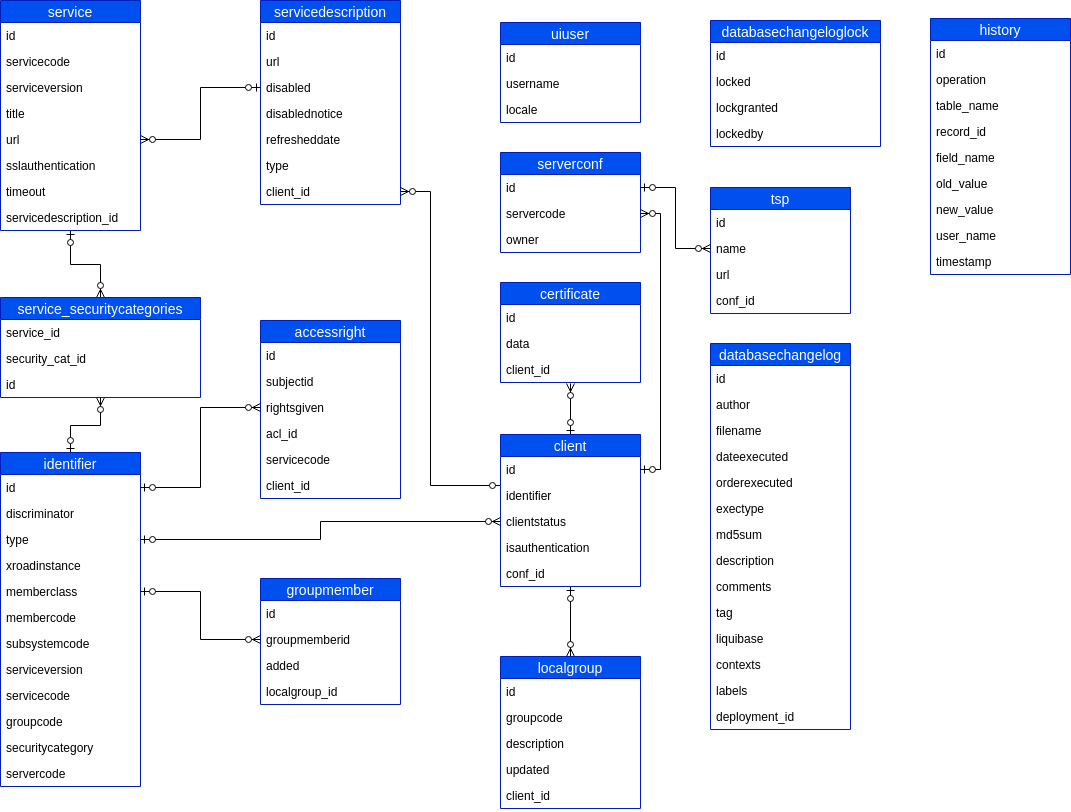
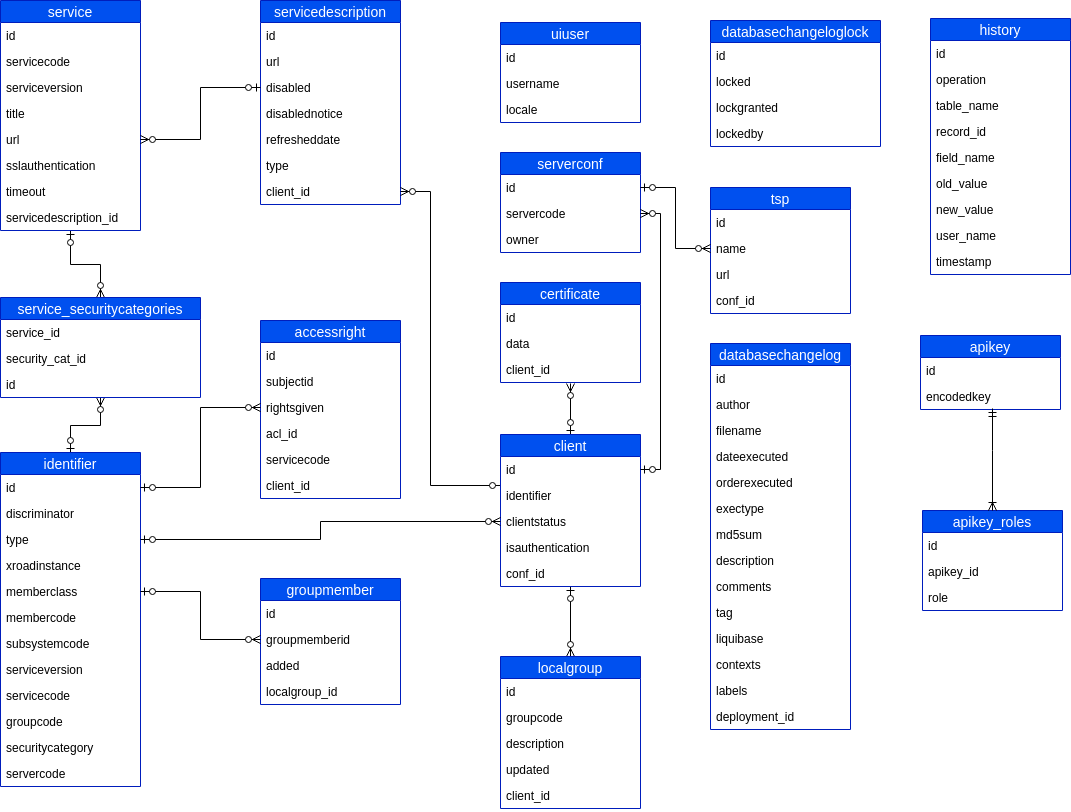
XRDDEV-237 update Security Server Configuration Data Model

Changed region(s): [[0.8627, 0.6158, 1.0, 0.7389], [0.8627, 0.4002, 1.0, 0.4926]]

diff --git a/doc/DataModels/dm-ss_x-road_security_server_configuration_data_model.md b/doc/DataModels/dm-ss_x-road_security_server_configuration_data_model.md
@@ -12,6 +12,7 @@ Doc. ID: DM-SS
 | 19.10.2015 | 1.1     | Indexes added                                           | Martin Lind        |
 | 11.12.2015 | 1.2     | Small fixes                                             | Siim Annuk         |
 | 28.01.2019 | 1.3     | Wsdl changes to servicedescription. Document converted to Markdown.  | Ilkka Seppälä      |
+| 26.03.2019 | 1.4     | Added tables for API keys                                            | Janne Mattila      |
 
 ## Table of Contents
 
@@ -30,42 +31,47 @@ Doc. ID: DM-SS
 	- [2.1 ACCESSRIGHT](#21-accessright)
 		- [2.1.1 Indexes](#211-indexes)
 		- [2.1.2 Attributes](#212-attributes)
-	- [2.2 CERTIFICATE](#22-certificate)
+	- [2.2 APIKEY](#22-apikey)
 		- [2.2.1 Attributes](#221-attributes)
-	- [2.3 CLIENT](#23-client)
+	- [2.3 APIKEY_ROLES](#23-apikeyroles)
 		- [2.3.1 Indexes](#231-indexes)
 		- [2.3.2 Attributes](#232-attributes)
-	- [2.4 DATABASECHANGELOG](#24-databasechangelog)
+	- [2.4 CERTIFICATE](#24-certificate)
 		- [2.4.1 Attributes](#241-attributes)
-	- [2.5 DATABASECHANGELOGLOCK](#25-databasechangeloglock)
-		- [2.5.1 Attributes](#251-attributes)
-	- [2.6 GROUPMEMBER](#26-groupmember)
-		- [2.6.1 Indexes](#261-indexes)
-		- [2.6.2 Attributes](#262-attributes)
-	- [2.7 HISTORY](#27-history)
+	- [2.5 CLIENT](#25-client)
+		- [2.5.1 Indexes](#251-indexes)
+		- [2.5.2 Attributes](#252-attributes)
+	- [2.6 DATABASECHANGELOG](#26-databasechangelog)
+		- [2.6.1 Attributes](#261-attributes)
+	- [2.7 DATABASECHANGELOGLOCK](#27-databasechangeloglock)
 		- [2.7.1 Attributes](#271-attributes)
-	- [2.8 IDENTIFIER](#28-identifier)
-		- [2.8.1 Attributes](#281-attributes)
-	- [2.9 LOCALGROUP](#29-localgroup)
-		- [2.9.1 Indexes](#291-indexes)
-		- [2.9.2 Attributes](#292-attributes)
-	- [2.10 SERVERCONF](#210-serverconf)
-		- [2.10.1 Indexes](#2101-indexes)
-		- [2.10.2 Attributes](#2102-attributes)
-	- [2.11 SERVICE](#211-service)
+	- [2.8 GROUPMEMBER](#28-groupmember)
+		- [2.8.1 Indexes](#281-indexes)
+		- [2.8.2 Attributes](#282-attributes)
+	- [2.9 HISTORY](#29-history)
+		- [2.9.1 Attributes](#291-attributes)
+	- [2.10 IDENTIFIER](#210-identifier)
+		- [2.10.1 Attributes](#2101-attributes)
+	- [2.11 LOCALGROUP](#211-localgroup)
 		- [2.11.1 Indexes](#2111-indexes)
 		- [2.11.2 Attributes](#2112-attributes)
-	- [2.12 SERVICE_SECURITYCATEGORIES](#212-servicesecuritycategories)
+	- [2.12 SERVERCONF](#212-serverconf)
 		- [2.12.1 Indexes](#2121-indexes)
 		- [2.12.2 Attributes](#2122-attributes)
-	- [2.13 TSP](#213-tsp)
+	- [2.13 SERVICE](#211-service)
 		- [2.13.1 Indexes](#2131-indexes)
 		- [2.13.2 Attributes](#2132-attributes)
-	- [2.14 UIUSER](#214-uiuser)
-		- [2.14.1 Attributes](#2141-attributes)
-	- [2.15 SERVICEDESCRIPTION](#215-servicedescription)
+	- [2.14 SERVICE_SECURITYCATEGORIES](#214-servicesecuritycategories)
+		- [2.14.1 Indexes](#2141-indexes)
+		- [2.14.2 Attributes](#2142-attributes)
+	- [2.15 TSP](#215-tsp)
 		- [2.15.1 Indexes](#2151-indexes)
 		- [2.15.2 Attributes](#2152-attributes)
+	- [2.16 UIUSER](#216-uiuser)
+		- [2.16.1 Attributes](#2161-attributes)
+	- [2.17 SERVICEDESCRIPTION](#217-servicedescription)
+		- [2.17.1 Indexes](#2171-indexes)
+		- [2.17.2 Attributes](#2172-attributes)
 
 ## License
 
@@ -133,11 +139,40 @@ Access right of a security server client or a group of clients to use a particul
 | servicecode | character varying(255) | NOT NULL | The service code part of the service identifier. |
 | client_id [FK]     | bigint         |         | The security server client who provides the service. References id attribute of CLIENT entity.          |
 
-## 2.2 CERTIFICATE
+## 2.2 APIKEY
+
+API key which grants access to REST API operations.
+
+### 2.2.1 Attributes
+
+| Name        | Type           | Modifiers        | Description          |
+|:----------- |:--------------:|:----------------:|:--------------------:|
+| id [PK]     | bigint         | NOT NULL         | Primary key          |
+| encodedkey | character varying(255) | NOT NULL | Encoded API key |
+
+## 2.3 APIKEY_ROLES
+
+Roles linked to one API key.
+
+### 2.3.1 Indexes
+
+| Name        | Columns           |
+|:----------- |:-----------------:|
+| unique_apikey_role | apikey_id, role |
+
+### 2.3.2 Attributes
+
+| Name        | Type           | Modifiers        | Description          |
+|:----------- |:--------------:|:----------------:|:--------------------:|
+| id [PK]     | bigint         | NOT NULL         | Primary key          |
+| apikey_id [FK]     | bigint         | NOT NULL         | Links one role to an API key          |
+| role | character varying(255) | NOT NULL | Role name. Check constraint `valid_role` limits value to valid ones. |
+
+## 2.4 CERTIFICATE
 
 Trusted authentication certificate associated with an information system belonging to a particular security server client. A certificate record is created when a certificate is uploaded for a security server client. The record is deleted when the certificate is deleted from the system configuration. The record is never modified.
 
-### 2.2.1 Attributes
+### 2.4.1 Attributes
 
 | Name        | Type           | Modifiers        | Description           |
 |:----------- |:-----------------:|:----------- |:-----------------:|
@@ -145,7 +180,7 @@ Trusted authentication certificate associated with an information system belongi
 | data | oid |  | X.509 public key certificate in binary DER form. |
 | client_id [FK] | bigint | | The security server client whose information system server uses this authentication certificate. References id attribute of CLIENT entity. |
 
-## 2.3 CLIENT
+## 2.5 CLIENT
 
 Member or subsystem that is using this security server. The security server owner is also registered as a client.
 For owner, the record is created when the administrator initializes the security server. For security server users, the record is created when the administrator adds new client in the user interface.
@@ -158,14 +193,14 @@ The field clientstatus shows the progress of registering in central server the c
     • “deletion in progress” -- the security server has successfully sent client deletion request to the central server. From this state, the only possible action is to delete the client from security server configuration.
     • “global error” -- the client was in state “registered”, but the connection between the client and the security server has been deleted from the global configuration. From this state the administrator can either wait for updated global configuration (in case the deletion was caused by an error), contact the systems administrator of the central server or delete the client.
 
-### 2.3.1 Indexes
+### 2.5.1 Indexes
 
 | Name        | Columns           |
 |:----------- |:-----------------:|
 | CLIENT_CONF_ID_fkey | conf_id   |
 | CLIENT_IDENTIFIER_fkey | identifier |
 
-### 2.3.2 Attributes
+### 2.5.2 Attributes
 
 | Name        | Type           | Modifiers        | Description           |
 |:----------- |:-----------------:|:----------- |:-----------------:|
@@ -178,11 +213,11 @@ The field clientstatus shows the progress of registering in central server the c
     • “SSLNOAUTH” -- the client can only connect with HTTPS protocol. No certificate-based authentication is used.
     • “SSLAUTH” -- the client can only connect with HTTPS protocol. The client must authenticate the connection with certificate. |
 
-## 2.4 DATABASECHANGELOG
+## 2.6 DATABASECHANGELOG
 
 Liquibase migration of the database. A record is created when the administrator updates the software package containing this database and the database structure needs to be modified. The record is never modified or deleted. This table has a technical nature and is not managed by X-Road application software.
 
-### 2.4.1 Attributes
+### 2.6.1 Attributes
 
 | Name        | Columns           | Name        | Columns           |
 |:----------- |:-----------------:|:----------- |:-----------------:|
@@ -201,11 +236,11 @@ Liquibase migration of the database. A record is created when the administrator 
 | labels | character varying(255) |  | Labels of the migration. |
 | deployment_id | character varying(10) |  | Deployment id of the migration. |
 
-## 2.5 DATABASECHANGELOGLOCK
+## 2.7 DATABASECHANGELOGLOCK
 
 Lock used by Liquibase to allow only one migration of the database to run at a time. This table has a technical nature and is not managed by X-Road application software.
 
-### 2.5.1 Attributes
+### 2.7.1 Attributes
 
 | Name        | Type           | Modifiers        | Description           |
 |:----------- |:-----------------:|:----------- |:-----------------:|
@@ -214,18 +249,18 @@ Lock used by Liquibase to allow only one migration of the database to run at a t
 | lockgranted | timestamp with time zone |  | Date and time when the lock was granted. |
 | lockedby | character varying(255) |  | Human-readable description of who the lock was granted to. |
 
-## 2.6 GROUPMEMBER
+## 2.8 GROUPMEMBER
 
 Member of a local group. A group membership record is created when the administrator adds a new subsystem to a local group. The record is deleted when the administrator removes the subsystem from the local group. The record is never modified. 
 
-### 2.6.1 Indexes
+### 2.8.1 Indexes
 
 | Name        | Columns           |
 |:----------- |:-----------------:|
 | GROUPMEMBER_GROUPMEMBERID_fkey | groupmemberid |
 | GROUPMEMBER_LOCALGROUP_ID_fkey | localgroup_id |
 
-### 2.6.2 Attributes
+### 2.8.2 Attributes
 
 | Name        | Type           | Modifiers        | Description           |
 |:----------- |:-----------------:|:----------- |:-----------------:|
@@ -234,11 +269,11 @@ Member of a local group. A group membership record is created when the administr
 | added | timestamp with time zone | NOT NULL | The time when the group member  was added. |
 | localgroup_id [FK] | bigint |  | The local group. References id attribute of LOCALGROUP entity. |
 
-## 2.7 HISTORY
+## 2.9 HISTORY
 
 Operations (insertions, updates and deletions of records) on the tables of this database, for the purpose of auditing. Each record corresponds to the change of a single field. The record is created in the manner described in section 1.4. The record is never modified or deleted.
 
-### 2.7.1 Attributes
+### 2.9.1 Attributes
 
 | Name        | Type           | Modifiers        | Description           |
 |:----------- |:-----------------:|:----------- |:-----------------:|
@@ -252,11 +287,11 @@ Operations (insertions, updates and deletions of records) on the tables of this 
 | user_name   | character varying(255) | NOT NULL | Name of either the logged in user of the UI or the database user behind the connection, that initiated the operation. |
 | timestamp  | timestamp without time zone | NOT NULL | Date and time of the operation.  |
 
-## 2.8 IDENTIFIER
+## 2.10 IDENTIFIER
 
 Identifier that can be used to identify various objects on X-Road. An identifier record is only created together with records of other entities and only one record of each identifier is ever created. For example, if a security server client record is created and its identifier is not found among identifier records, new one is created. The record is never modified or deleted.
 
-### 2.8.1 Attributes
+### 2.10.1 Attributes
 
 | Name        | Type           | Modifiers        | Description           |
 |:----------- |:-----------------:|:----------- |:-----------------:|
@@ -273,17 +308,17 @@ Identifier that can be used to identify various objects on X-Road. An identifier
 | securitycategory | character varying(255) |   | Security category. Present in identifiers of SECURITYCATEGORY type.  |
 | servercode | character varying(255) |   | Security server code. Present in identifiers of SERVER type.  |
 
-## 2.9 LOCALGROUP
+## 2.11 LOCALGROUP
 
 Group of members and/or subsystems. The group is local to a security server client and is used in access rights management. Local groups are connected to a security server client and can only be used for services belonging to that client. A local group record is created when the administrator adds a new local group to a security server client. The record is modified when the administrator changes the description of the group. The record is deleted when the administrator deletes the group or the security server client for whom the group is defined.
 
-### 2.9.1 Indexes
+### 2.11.1 Indexes
 
 | Name        | Columns           |
 |:----------- |:-----------------:|
 | LOCALGROUP_CLIENT_ID_fkey | client_id |
 
-### 2.9.2 Attributes
+### 2.11.2 Attributes
 
 | Name        | Type           | Modifiers        | Description           |
 |:----------- |:-----------------:|:----------- |:-----------------:|
@@ -293,17 +328,17 @@ Group of members and/or subsystems. The group is local to a security server clie
 | updated | timestamp with time zone | NOT NULL | The time when the description of the group was last updated. |
 | client_id [FK] | bigint |  | The security server client for whom the local group is defined. References id attribute of CLIENT entity. |
 
-## 2.10 SERVERCONF
+## 2.12 SERVERCONF
 
 The top-level configuration of the security server, specifying the owner and the code of this security server. This table contains only one record that is created when the security server is initialized. The record is never modified or deleted.
 
-### 2.10.1 Indexes
+### 2.12.1 Indexes
 
 | Name        | Columns           |
 |:----------- |:-----------------:|
 | SERVERCONF_OWNER_fkey | owner |
 
-### 2.10.2 Attributes
+### 2.12.2 Attributes
 
 | Name        | Type           | Modifiers        | Description           |
 |:----------- |:-----------------:|:----------- |:-----------------:|
@@ -311,17 +346,17 @@ The top-level configuration of the security server, specifying the owner and the
 | servercode  | character varying(255) |  | The code of this security server.  |
 | owner [FK]  | bigint |  | The security server client who is the owner of this security server. References id attribute of CLIENT entity. |
 
-## 2.11 SERVICE
+## 2.13 SERVICE
 
 Service provided by a security server client. A service record is created when the administrator adds or refreshes a WSDL of a security server client, and a new service description is found in the WSDL. The record is modified if the administrator edits the service parameters in the user interface. The record is deleted when the administrator deletes the WSDL containing the service description or when the administrator deletes the security server client owning the WSDL.
 
-### 2.11.1 Indexes
+### 2.13.1 Indexes
 
 | Name        | Columns           |
 |:----------- |:-----------------:|
 | SERVICE_WSDL_ID_fkey | wsdl_id |
 
-### 2.11.2 Attributes
+### 2.13.2 Attributes
 
 | Name        | Type           | Modifiers        | Description           |
 |:----------- |:-----------------:|:----------- |:-----------------:|
@@ -334,11 +369,11 @@ Service provided by a security server client. A service record is created when t
 | timeout | integer |  | The maximum time in seconds that the service provider can  take to respond to a query. |
 | servicedescription_id [FK] | bigint |  | The servicedescription of which this service is part of. References id attribute of SERVICEDESCRIPTION entity. |
 
-## 2.12 SERVICE_SECURITYCATEGORIES
+## 2.14 SERVICE_SECURITYCATEGORIES
 
 Security category of a service. Currently security categories is a disabled feature and services cannot be assigned security categories.
 
-### 2.12.1 Indexes
+### 2.14.1 Indexes
 
 | Name        | Columns           |
 |:----------- |:-----------------:|
@@ -346,7 +381,7 @@ Security category of a service. Currently security categories is a disabled feat
 | SERVICE_SECURITYCATEGORIES_SERVICE_ID_fkey | service_id |
 | service_securitycategories_id_key | id |
 
-### 2.12.2 Attributes
+### 2.14.2 Attributes
 
 | Name        | Type           | Modifiers        | Description           |
 |:----------- |:-----------------:|:----------- |:-----------------:|
@@ -354,17 +389,17 @@ Security category of a service. Currently security categories is a disabled feat
 | service_id [FK] | bigint | NOT NULL | The service for which the security category is assigned. References id attribute of SERVICE entity. |
 | security_cat_id [FK] | bigint | NOT NULL | The identifier of the security category. References id attribute of IDENTIFIER entity. |
 
-## 2.13 TSP
+## 2.15 TSP
 
 Timestamping service provider (TSP) that is used by the security server to time-stamp messages stored in the message log. Only connection parameters to the TSP are included. The data needed for verifying time stamps is read from the global configuration. A TSP record is created when the administrator adds a new TSP in the user interface. The record is deleted when the administrator deletes the TSP in the user interface. The record is never modified. 
 
-### 2.13.1 Indexes
+### 2.15.1 Indexes
 
 | Name        | Columns           |
 |:----------- |:-----------------:|
 | TSP_CONF_ID_fkey | conf_id |
 
-### 2.13.2 Attributes
+### 2.15.2 Attributes
 
 | Name        | Type           | Modifiers        | Description           |
 |:----------- |:-----------------:|:----------- |:-----------------:|
@@ -373,11 +408,11 @@ Timestamping service provider (TSP) that is used by the security server to time-
 | name  | character varying(255) |  | The name of the TSP. Used for displaying in the user interface. |
 | url  | character varying(255) | NOT NULL | The URL of the TSP. The security server will send time-stamping request using HTTP POST method.  |
 
-## 2.14 UIUSER
+## 2.16 UIUSER
 
 Preferences of the user interface user. A record is created when the user changes the user interface language for the first time. The record is modified on later changes to the language. The record is never deleted.
 
-### 2.14.1 Attributes
+### 2.16.1 Attributes
 
 | Name        | Type           | Modifiers        | Description           |
 |:----------- |:-----------------:|:----------- |:-----------------:|
@@ -385,17 +420,17 @@ Preferences of the user interface user. A record is created when the user change
 | username | character varying(255) | NOT NULL | Name of the user who has customized their user interface language. |
 | locale | character varying(255) |  | The preferred language code. Valid values are 'en' for English, and 'et' for Estonian. |
 
-## 2.15 SERVICEDESCRIPTION
+## 2.17 SERVICEDESCRIPTION
 
 Pointer to a SERVICEDESCRIPTION containing the descriptions of services provided by a security server client. A SERVICEDESCRIPTION record is created when the administrator adds a new service description to a security server client in the user interface. The record is modified when the administrator refreshes, enables or disables the service description. The record is deleted when the administrator deletes the service description or the security server client owning the service description.
 
-### 2.15.1 Indexes
+### 2.17.1 Indexes
 
 | Name        | Columns           |
 |:----------- |:-----------------:|
 | WSDL_CLIENT_ID_fkey | client_id |
 
-### 2.15.2 Attributes
+### 2.17.2 Attributes
 
 | Name        | Type           | Modifiers        | Description           |
 |:----------- |:-----------------:|:----------- |:-----------------:|
